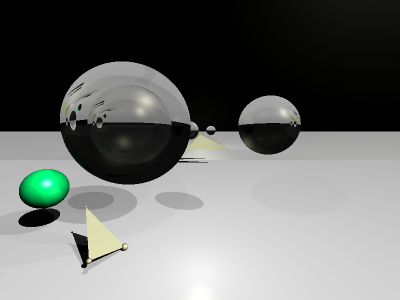
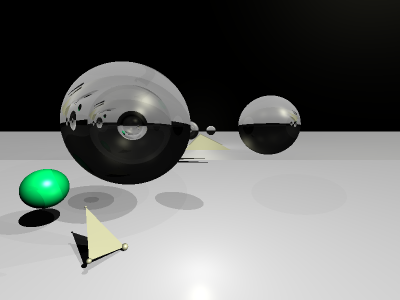
total reflection

Changed region(s): [[0.27, 0.36, 0.39, 0.48]]

diff --git a/camera.cpp b/camera.cpp
@@ -87,10 +87,20 @@ vector3df camera::ray_trace(const ray &r, const vector3df &contribution) const
             n_r = r.last_refractive_index();
         }
         vector3df new_direction = r.direction.refract(ir.result.n, r.refractive_index, n_r);
-        vector3df Irefract =
-            ray_trace(ray(r, ir.result.p, new_direction, in_out, n_r),
-                      contribution.modulate(ir.obj.refractiveness)).modulate(ir.obj.refractiveness);
-        I = I + Irefract;
+        if (new_direction != vector3df::zero)
+        {
+            vector3df Irefract =
+                ray_trace(ray(r, ir.result.p, new_direction, in_out, n_r),
+                    contribution.modulate(ir.obj.refractiveness)).modulate(ir.obj.refractiveness);
+            I = I + Irefract;
+        }
+        else // total reflection
+        {
+            // TODO: refactor
+            vector3df Ireflect = ray_trace(ray(r, ir.result.p, r.direction.reflect(ir.result.n)),
+                contribution.modulate(ir.obj.refractiveness)).modulate(ir.obj.refractiveness);
+            I = I + Ireflect;
+        }
     }
 
     return I.capped();

diff --git a/main.cpp b/main.cpp
@@ -90,6 +90,14 @@ int main(int argc, char **argv)
     magic3.refractive_index = 1.5;
     magic3.reflectiveness = 0.05;
 
+    object &magic4 = w.add_object(std::make_shared<sphere>(vector3df(-700.0, 250.0, -900.0), 100.0));
+    magic4.diffuse = vector3df::zero;
+    magic4.specular = vector3df::one * 0.2;
+    magic4.shininess = 32.0;
+    magic4.refractiveness = vector3df::one * 0.9; // vector3df(0.0, 0.5, 1.0) * 0.9;
+    magic4.refractive_index = 1.0;
+    magic4.reflectiveness = 0.05;
+
     w.add_object(std::make_shared<sphere>(vector3df(-1600.0, -400.0, -900.0), 200.0));
     object &small1 = w.add_object(std::make_shared<sphere>(vector3df(-1000.0, -500.0, -600.0), 10.0));
     object &small2 = w.add_object(std::make_shared<sphere>(vector3df(-850.0, -850.0, -400.0), 20.0));

diff --git a/vector3d.hpp b/vector3d.hpp
@@ -73,6 +73,11 @@ public:
         return x == v2.x && y == v2.y && z == v2.z;
     }
 
+    bool operator!=(const vector3d &v2) const
+    {
+        return !(*this == v2);
+    }
+
     T dot(const vector3d &v2) const
     {
         return x * v2.x + y * v2.y + z * v2.z;
@@ -115,7 +120,12 @@ public:
         T i_dot_n = this->dot(n);
         T cosi2 = i_dot_n * i_dot_n / (this->length2() * n.length2());
         double n_i_n_r = n_i / n_r;
-        T cosr = sqrt(1.0 - n_i_n_r * n_i_n_r * (1 - cosi2));
+        T cosr2 = 1.0 - n_i_n_r * n_i_n_r * (1 - cosi2);
+        if (cosr2 < eps)
+        {
+            return zero;
+        }
+        T cosr = sqrt(cosr2);
         if (i_dot_n >= eps)
         {
             cosr = -cosr;
